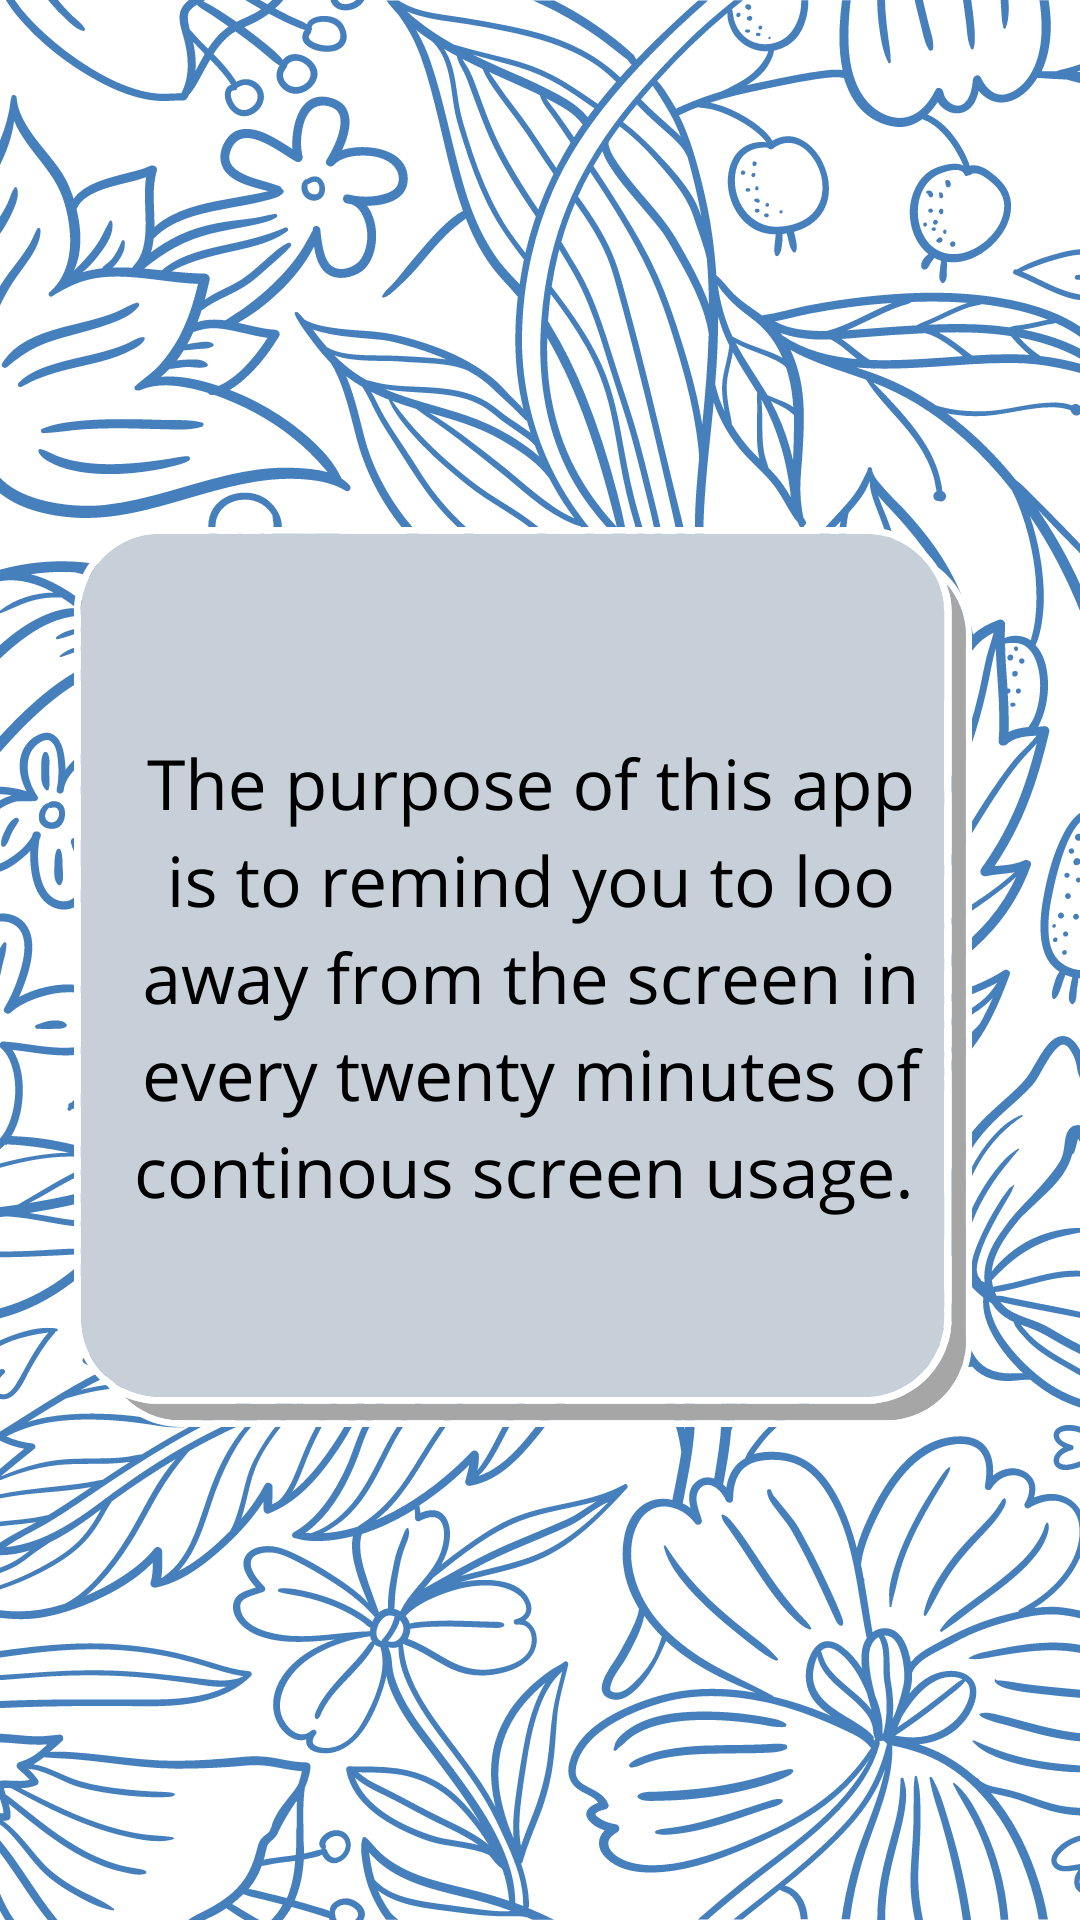
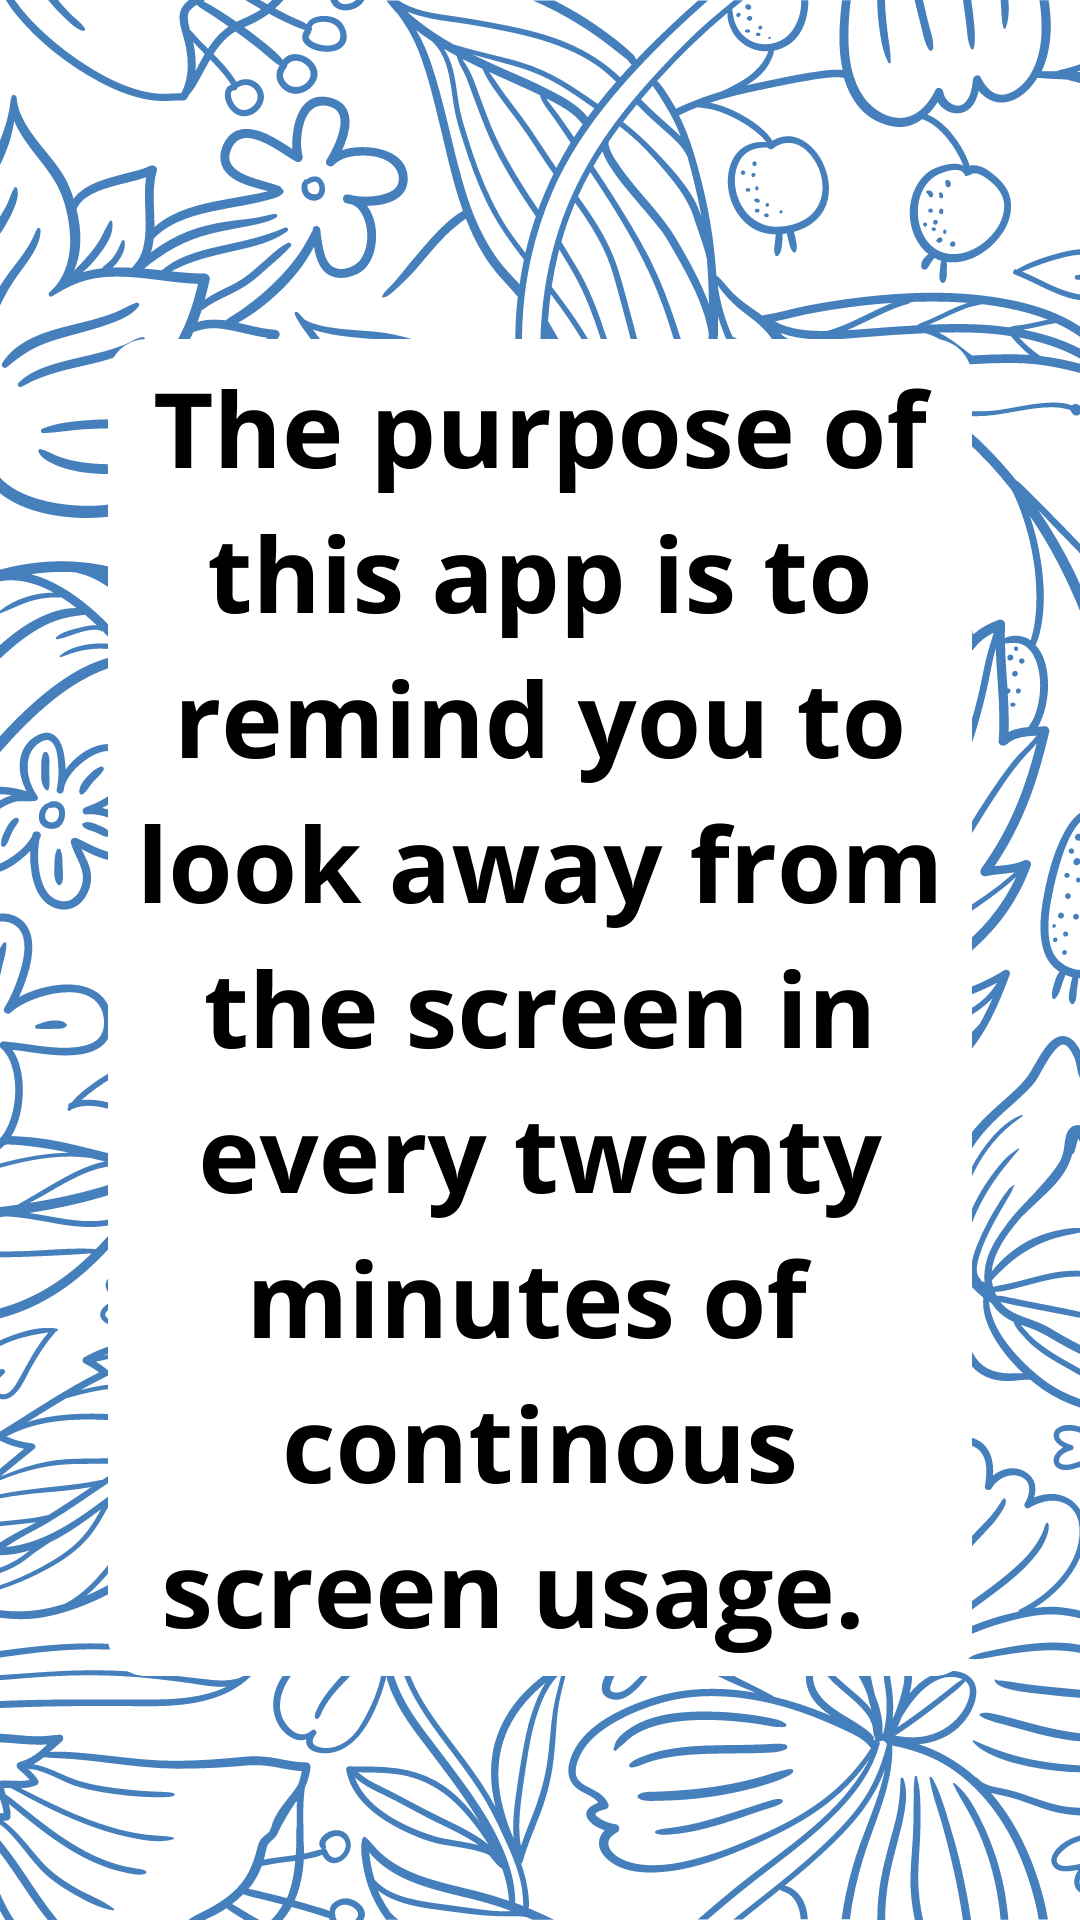
Adding startup pages

diff --git a/lib/startup_pages/page1.dart b/lib/startup_pages/page1.dart
@@ -1,0 +1,30 @@
+import 'package:eyesaver/startup_pages/page2.dart';
+import 'package:flutter/material.dart';
+
+class Page1 extends StatelessWidget {
+  const Page1({Key? key}) : super(key: key);
+
+  @override
+  Widget build(BuildContext context) {
+    return Scaffold(
+      floatingActionButton: FloatingActionButton(
+        backgroundColor: Colors.lightBlueAccent,
+        child: const Icon(Icons.chevron_right),
+        onPressed: () {
+          Navigator.push(
+            context,
+            MaterialPageRoute(
+              builder: (context) => Page2(),
+            ),
+          );
+        },
+      ),
+      body: Container(
+        decoration: BoxDecoration(
+          image: DecorationImage(
+              image: AssetImage('images/1.png'), fit: BoxFit.cover),
+        ),
+      ),
+    );
+  }
+}

diff --git a/lib/startup_pages/page2.dart b/lib/startup_pages/page2.dart
@@ -1,0 +1,30 @@
+import 'package:eyesaver/startup_pages/page3.dart';
+import 'package:flutter/material.dart';
+
+class Page2 extends StatelessWidget {
+  const Page2({Key? key}) : super(key: key);
+
+  @override
+  Widget build(BuildContext context) {
+    return Scaffold(
+      floatingActionButton: FloatingActionButton(
+        backgroundColor: Colors.lightBlueAccent,
+        child: const Icon(Icons.chevron_right),
+        onPressed: () {
+          Navigator.push(
+            context,
+            MaterialPageRoute(
+              builder: (context) => Page3(),
+            ),
+          );
+        },
+      ),
+      body: Container(
+        decoration: BoxDecoration(
+          image: DecorationImage(
+              image: AssetImage('images/2.png'), fit: BoxFit.cover),
+        ),
+      ),
+    );
+  }
+}

diff --git a/lib/startup_pages/page3.dart b/lib/startup_pages/page3.dart
@@ -1,0 +1,31 @@
+import 'package:eyesaver/startup_pages/home.dart';
+import 'package:flutter/material.dart';
+
+
+class Page3 extends StatelessWidget {
+  const Page3({Key? key}) : super(key: key);
+
+  @override
+  Widget build(BuildContext context) {
+    return Scaffold(
+      floatingActionButton: FloatingActionButton(
+        backgroundColor: Colors.lightBlueAccent,
+        child: const Icon(Icons.chevron_right),
+        onPressed: () {
+          Navigator.push(
+            context,
+            MaterialPageRoute(
+              builder: (context) => Home(),
+            ),
+          );
+        },
+      ),
+      body: Container(
+        decoration: BoxDecoration(
+          image: DecorationImage(
+              image: AssetImage('images/3.png'), fit: BoxFit.cover),
+        ),
+      ),
+    );
+  }
+}

diff --git a/lib/main.dart b/lib/main.dart
@@ -1,4 +1,5 @@
 import 'package:flutter/material.dart';
+import 'package:eyesaver/startup_pages/page1.dart';
 
 void main() {
   runApp(MyApp());
@@ -15,24 +16,10 @@ class _MyAppState extends State<MyApp> {
   @override
   Widget build(BuildContext context) {
     return MaterialApp(
-      home: Scaffold(
-        appBar: AppBar(),
-        body: SafeArea(
-          child: Column(
-            children: [
-              ListTile(
-                title: Text(
-                  'Start',
-                  textAlign: TextAlign.center,
-                  style: TextStyle(
-                    fontSize: 20.0,
-                  ),
-                ),
-              ),
-            ],
-          ),
-        ),
-      ),
+      home: Page1(),
     );
   }
 }
+/*
+
+*/

diff --git a/lib/startup_pages/home.dart b/lib/startup_pages/home.dart
@@ -1,0 +1,32 @@
+import 'package:flutter/material.dart';
+
+class Home extends StatefulWidget {
+  const Home({Key? key}) : super(key: key);
+
+  @override
+  _HomeState createState() => _HomeState();
+}
+
+class _HomeState extends State<Home> {
+  @override
+  Widget build(BuildContext context) {
+    return Scaffold(
+      appBar: AppBar(),
+      body: SafeArea(
+        child: Column(
+          children: [
+            ListTile(
+              title: Text(
+                'Start',
+                textAlign: TextAlign.center,
+                style: TextStyle(
+                  fontSize: 20.0,
+                ),
+              ),
+            ),
+          ],
+        ),
+      ),
+    ),
+  }
+}
